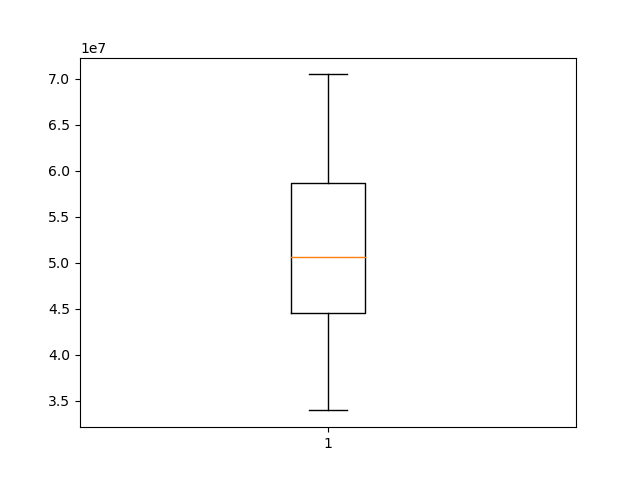
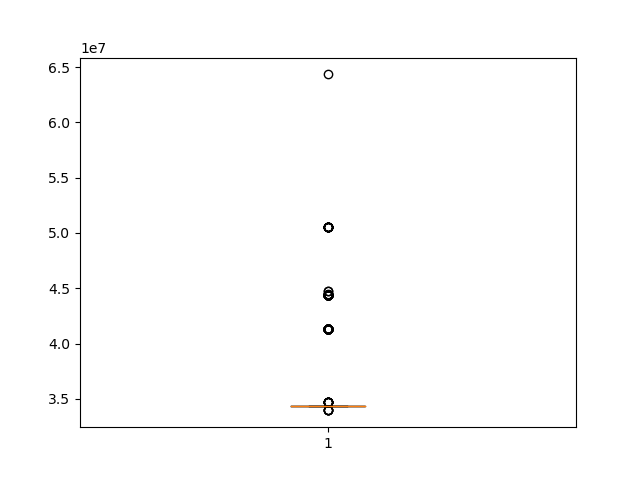
Benders_UB_LB

diff --git a/MHSP/model/MHSP_SDDP.py b/MHSP/model/MHSP_SDDP.py
@@ -11,7 +11,7 @@ import sys
 import matplotlib.pyplot as plt
 
 
-cut_vio_thred = 1e-2
+cut_vio_thred = 1e-4
 
 class subproblem:
 
@@ -428,11 +428,11 @@ class StageProblem_Decomposition:
                 break
 
 
-
-
         staging_area_expand_cost_temp = 0
         inventory_expand_cost_temp = 0
         holding_cost_temp = 0
+
+        obj = self.model.ObjVal
 
 
         if(self.args.evaluate_switch == True):
@@ -440,10 +440,10 @@ class StageProblem_Decomposition:
             staging_area_expand_cost_temp = sum(self.idata.E_w[w]*self.y[w].x for w in range(self.args.W))                                   
             inventory_expand_cost_temp =  sum(self.args.price_strategic*self.idata.O_p[p]*(self.x[w,p].x - self.idata.R_p[p]*self.z[w,p].x) for w in range(self.args.W) for p in range(self.args.P))
             holding_cost_temp = sum(self.idata.H_p[p]*self.v[w,p].x for w in range(self.args.W) for p in range(self.args.P))
+            if(self.last_stage == False):
+                obj = self.model.ObjVal - sum(self.idata.MC_tran_matrix[self.stage][self.state][n]*self.theta[n].x for n in range(self.args.N)) 
 
-           
-
-        return self.u,self.v,LB, pi_8b, pi_8e, pi_8g, pi_8h, pi_8i, staging_area_expand_cost_temp, inventory_expand_cost_temp,holding_cost_temp
+        return self.u,self.v,obj, pi_8b, pi_8e, pi_8g, pi_8h, pi_8i, staging_area_expand_cost_temp, inventory_expand_cost_temp,holding_cost_temp
 
     def backward_run(self,iter):
 
@@ -797,9 +797,6 @@ class StageProblem_extended:
                 obj = self.model.ObjVal - sum(self.idata.MC_tran_matrix[self.stage][self.state][n]*self.theta[n].x for n in range(self.args.N))
                 # print(sum(self.idata.MC_tran_matrix[self.stage][self.state][n]*self.theta[n].x for n in range(self.args.N)))
 
-                if(self.stage0 == True):
-                    print(self.model.ObjVal,obj)
-
 
         return self.u,self.v,obj,staging_area_expand_cost,inventory_expand_cost,replenmship_cost,Shortage_cost,acquire_cost,holding_cost
 
@@ -927,15 +924,10 @@ class solve_SDDP:
         state = self.initial_state
 
         for stage in range(args.T):
-            next_state = np.random.choice(args.N, 1, self.idata.MC_tran_matrix[stage][state].tolist)
+            next_state = np.random.choice(args.N, 1, p=self.idata.MC_tran_matrix[stage][state].tolist())
             state = next_state[0]
             path.append(state)
 
-        # for stage in range(args.T):
-        #     state = 5
-        #     path.append(state)
-
-        # print(path)
         return path
 
 
@@ -1140,7 +1132,6 @@ class solve_SDDP:
 
                 path_count = np.zeros((self.args.T+1,self.args.N))
 
-
                 for counts in range(simulate_iter):
 
                     # sample path
@@ -1237,8 +1228,8 @@ class solve_SDDP:
 
                 df.to_csv(f'{filename}.csv', index=False) 
                 print("LB:", LB_temp)
-                print("std_sol:", np.std(solution_total))
-                print("mean_so:", np.mean(solution_total))
+                print("UB std_sol:", np.std(solution_total))
+                print("UB mean_so:", np.mean(solution_total))
                 print("gap:", (np.mean(solution_total) - LB_temp)/np.mean(solution_total))
                 plt.boxplot(solution_total)
                 plt.savefig(f'{filename}.png')

diff --git a/MHSP/model/MHSP_Benders.py b/MHSP/model/MHSP_Benders.py
@@ -246,6 +246,20 @@ class Benders():
     #                 print("the LB is not making significant progress")
     #     return flag, Elapsed
 
+    def sample_path(self, args):
+
+        path = []
+        
+        self.initial_state = args.initial_state
+        state = self.initial_state
+
+        for stage in range(args.T):
+            next_state = np.random.choice(args.N, 1, p=self.idata.MC_tran_matrix[stage][state].tolist())
+            state = next_state[0]
+            path.append(state)
+
+        return path
+
     def run(self,args):
 
         self.master.setParam("OutputFlag", 0)
@@ -299,8 +313,40 @@ class Benders():
 
             itr = itr+1
                 
+        simulate_iter = 1000
+        solution_total = np.zeros((simulate_iter))
 
-        print("Opt",self.UB)
+        for counts in range(simulate_iter):
+
+            sample_path = self.sample_path(self.args)
+
+            node = 0
+            obj = sum(self.idata.E_w[w]*self.y[node,w].x for w in range(args.W)) 
+            obj = obj + sum(args.price_strategic*self.idata.O_p[p]*(self.x[node,w,p].x - self.idata.R_p[p]*self.z[node,w,p].x) + self.idata.H_p[p]*self.v[node,w,p].x for w in range(args.W) for p in range(args.P)) 
+            obj = obj + (1/args.K)*quicksum(self.theta[node,k] for k in range(args.K))
+
+            solution_total[counts] = solution_total[counts] + obj
+            node_pre = node
+
+            for state in sample_path:
+                node = node_pre*self.args.N + state + 1
+                print(state,node)
+                obj = sum(self.idata.E_w[w]*self.y[node,w].x for w in range(args.W)) 
+                obj = obj + sum(args.price_strategic*self.idata.O_p[p]*(self.x[node,w,p].x - self.idata.R_p[p]*self.z[node,w,p].x) + self.idata.H_p[p]*self.v[node,w,p].x for w in range(args.W) for p in range(args.P)) 
+                obj = obj + (1/args.K)*quicksum(self.theta[node,k] for k in range(args.K))
+                solution_total[counts] = solution_total[counts] + obj
+                node_pre = node
+
+        print("Converage(UB/LB):",self.UB,self.LB)
+        print("UB std_sol:", np.std(solution_total))
+        print("UB mean_so:", np.mean(solution_total))
+        print("gap:", (np.mean(solution_total) - self.LB)/np.mean(solution_total))
+
+
+
+
+
+
 
 
 

diff --git a/MHSP/arguments.py b/MHSP/arguments.py
@@ -40,8 +40,8 @@ class Arguments:
         self._parser.add_argument('--MAX_ITER', type=int, default=100000, help='Shortage Factor')
         self._parser.add_argument('--time_limit', type=int, default=10800, help='Shortage Factor')
         self._parser.add_argument('--CUTVIOL_MAXITER', type=float, default=100000, help='Shortage Factor')
-        self._parser.add_argument('--STALL', type=int, default=20, help='Shortage Factor')
-        self._parser.add_argument('--LB_TOL', type=float, default=1e-6, help='Shortage Factor')
+        self._parser.add_argument('--STALL', type=int, default=200, help='Shortage Factor')
+        self._parser.add_argument('--LB_TOL', type=float, default=1e-4, help='Shortage Factor')
 
         # Method
         self._parser.add_argument('--Strategic_node_sovling', type=int, default=1, help='0: Extend Formulation 1: Benders Decompostion')

diff --git a/MHSP/model/inpu_data.py b/MHSP/model/inpu_data.py
@@ -60,6 +60,10 @@ class input_data_class:
         self.MC_tran_matrix  = np.zeros(shape)
         self.MC_tran_matrix [tuple(indices.T)] = values  # Use advanced indexing to map values back
 
+        for stage in range(args.T):
+            for state in range(args.N):
+                self.MC_tran_matrix[stage][state] = self.MC_tran_matrix[stage][state]/sum(self.MC_tran_matrix[stage][state])
+
         end_time = time.time()
         time_taken = end_time - start_time
         print("MC trans matrix loaded.",time_taken,"secs.")
